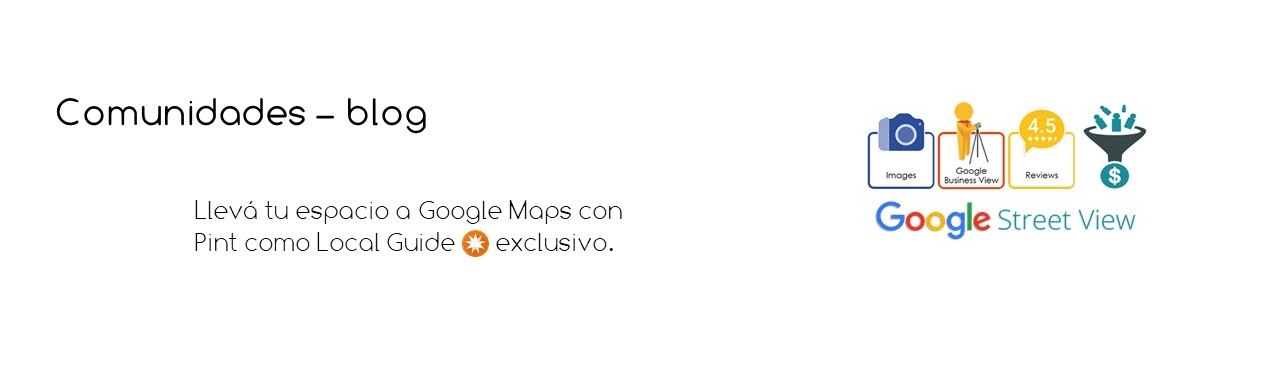
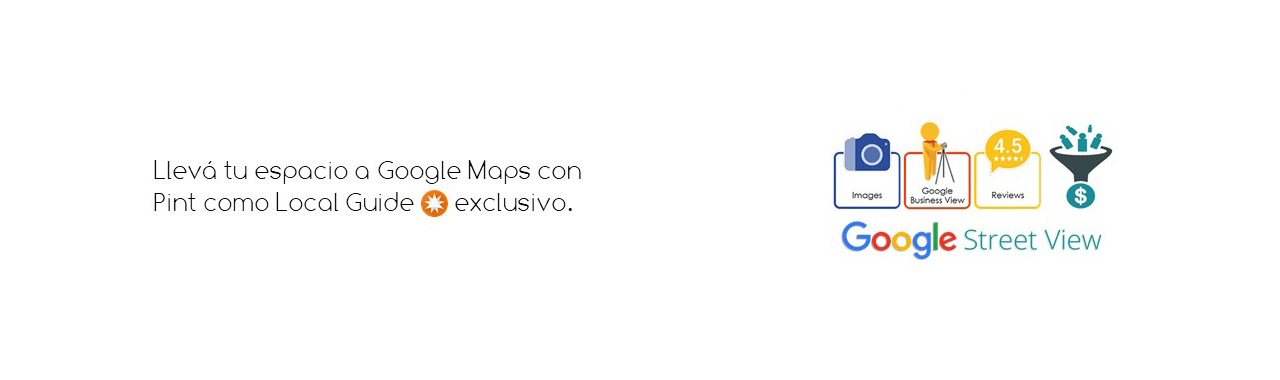
publis

Changed region(s): [[0.6562, 0.2605, 0.9062, 0.6947], [0.125, 0.4342, 0.5, 0.6947], [0.0312, 0.2605, 0.3438, 0.3474]]

diff --git a/pages/blog.html b/pages/blog.html
@@ -29,52 +29,53 @@
             </div>
         </header>
 
-        <main> <!-- ARTICULO PRINCIPAL -->
-            <section class="blog-articulo">
-                    <h1>“Realidad virtual” y nuevos paradigmas</h1>
-                    <div class="blog-in">
-                        <img class="blog-firma" src="../assets/img/empresa/jor-amoreo.jpeg" alt="">                
-                        <div>
-                            <h2><a class="link-negro" href="https://www.linkedin.com/in/jor-amoreo-casotti/">Jor Amoreo Casotti</a></h2>
-                            <p>CEO & Founder - Proptech Pint</p>
-                        </div>
+        <main class="blog-main"> <!-- ARTICULO PRINCIPAL -->
+            <section>
+                <h1>“Realidad virtual” y nuevos paradigmas</h1>
+                <div class="blog-in">
+                    <img class="blog-fotito" src="../assets/img/empresa/jor-amoreo.jpeg" alt="">                
+                    <div class="blog-firma">
+                        <h2><a class="link-negro" href="https://www.linkedin.com/in/jor-amoreo-casotti/">Jor Amoreo Casotti</a></h2>
+                        <p>CEO & Founder - Proptech Pint</p>
                     </div>
-                    <p class="blog-fecha">16 de junio de 2023</p>
-                    <div><img class="blog-foto" src="../assets/img/blog/blog-cover.jpeg" alt=""></div>
-                    <p>Los sentidos corporales, como la vista, el oído, el olfato, el gusto y el tacto, no solo nos permiten experimentar el mundo físico, sino que también nos brindan la oportunidad de conocernos a nosotros mismos y a los demás, para así generar y capturar valor en la sociedad, desarrollar nuestra sensibilidad espiritual y adquirir cualidades como la serenidad, la firmeza y la prudencia.</p>
-                    <p>Existe otra serie de sentidos menos populares, como el térmico, las sensaciones motoras, el sentido del equilibrio y las sensaciones de dolor, que también desempeñan un papel importante en nuestra percepción y experiencia del mundo. Se destaca la importancia de la razón en el camino hacia el conocimiento y la búsqueda de la Verdad con el fin de elevarnos por encima de lo concreto y comprender la naturaleza de las cosas, encontrar la verdad y crear conocimiento a través de la ciencia y las artes.</p>
-                    <p>Es curiosa en este sentido la denominada “realidad virtual” que desde su denominación constituye una contradicción en términos debido a la naturaleza misma de la realidad y su relación con la virtualidad. La realidad, en su esencia, se refiere a la existencia objetiva y tangible, por medio de los mencionados sentidos, del mundo que nos rodea, mientras que lo virtual se refiere a algo que es simulado, creado o representado mediante las tecnologías de la información y la comunicación, pero que también interpelan nuestros sentidos. Por lo tanto, al combinar estos dos conceptos, se genera una paradoja fundamental, ya que la virtualidad implica una separación de la realidad tangible y una incursión en un mundo construido, donde la experiencia percibida puede diferir de la realidad objetiva. Aunque la realidad virtual puede brindar experiencias inmersivas y fascinantes, es importante reconocer que, en última instancia, sigue siendo una construcción artificial que no puede replicar plenamente la complejidad y la totalidad de la realidad en su estado puro.</p>
-                    <p>Estas nuevas tecnologías que prometen nuevamente revolucionar nuestra forma de percibir y experimentar el mundo a través de dispositivos e instrumentos de avanzada, nos transportan a mundos virtuales que estimulan nuestros sentidos de manera extraordinaria. Sin embargo, en este deslumbrante universo digital, se esconde otra paradoja inquietante. ¿Hasta qué punto estamos dispuestos a permitir que nuestros sentidos sean manipulados y controlados por estas creaciones artificiales? ¿Ocurrió alguna vez en otra época de la humanidad algo similar con los sentidos de nuestros antepasados?</p>
-                    <p>A lo largo de la historia, la humanidad ha creado varias invenciones y tecnologías que han manipulado los sentidos de diferentes maneras: en su momento la fotografía, el cine, la manipulación de la velocidad, la aviación, y muchas otras, son en definitiva nuevos paradigmas que intervienen nuestra percepción del mundo conocido hasta el momento y cambian nuestras realidades para siempre, hasta que un día las damos por naturales. ¿Hasta dónde todas estas herramientas pueden caracterizarse  dentro de los parámetros de la autenticidad del ser humano, si ha quedado desnaturalizado respecto a la “idea original” si es que la hubo?</p>
-                    <p>La praxeología es una rama de la ciencias económicas poco explorada y que se centra en el estudio de la acción humana y sus consecuencias. Esta atractiva disciplina ha influido en diversos campos de estudio, incluyendo tanto a la filosofía como a la sociología y ofrece un marco conceptual para analizar y reflexionar sobre la relación entre la acción humana, la innovación tecnológica y los cambios constantes en la concepción de nuestra existencia. Al explorar estos temas desde una perspectiva filosófica, podemos profundizar en nuestra comprensión de cómo la especie humana evoluciona y se transforma a través de la razón y la capacidad de crear nuevas versiones de sí misma.</p>
-                    <p>La realidad virtual, con su capacidad para sumergirnos en mundos alternativos, desafía los límites de nuestra percepción y nos invita a cuestionar la naturaleza misma de la realidad. Pero, al mismo tiempo, plantea interrogantes sobre la autenticidad y ante todo la autenticidad de nuestras experiencias sensoriales. ¿Podemos confiar plenamente en lo que vemos, oímos y sentimos en estos entornos simulados?</p>
-                    <p>Varios exponentes de la literatura han elaborado sobre las realidades laberínticas y las ficciones infinitas. Sin duda escritores como Jorge Luis Borges, hubiesen encontrado en estas nuevas invenciones una fuente inagotable de inspiración. Los estilos poéticos y metafísicos de la apreciación de estas nociones podemos aprovecharlos para reflexionar en que si bien la manipulación de nuestros sentidos puede ser perturbadora, también puede ser una herramienta poderosa para explorar los límites del conocimiento y la imaginación: viajar a lugares remotos, sumergirse en mundos imaginarios, vivir experiencias emocionantes y peligrosas de manera segura, son solo algunos cambios de paradigma que esta era nos propone. La realidad virtual, en su esencia, nos ofrece una oportunidad única de adentrarnos en los recovecos más profundos de nuestra mente, donde la línea entre lo real y lo ilusorio se desvanece.</p>
-                    <p>Es crucial recordar, que como con todo, el verdadero poder de estas nuevas tecnologías, reside en la forma en que las utilizamos. Si nos entregamos ciegamente a sus encantos y permitimos que controle nuestras percepciones sin cuestionar, nos arriesgamos a perder nuestra conexión con la esencia misma de lo humano. Pero si somos conscientes de su potencial y la empleamos con sabiduría, la realidad virtual puede convertirse en una herramienta de expansión y enriquecimiento de nuestra mente y espíritu, en el contexto de la ciencia, la medicina, el comercio, el turismo… la vida. </p>
-                    <p>En última instancia, estos avances nos desafían a explorar la relación entre nuestros sentidos, la percepción y la verdad misma. A través de la reflexión y la filosofía, podemos encontrar un equilibrio entre la maravilla y la cautela, entre el descubrimiento y la autenticidad. Quizá la clave radique en recordar que, aunque estas oportunidades de la historia nos ofrecen nuevas fronteras para explorar, somos nosotros, como seres humanos conscientes, quienes debemos decidir cómo navegar por este fascinante y desconcertante paisaje de realidades alternativas.</p>
-                    <p>Más que respuestas, esta nueva era nos invita a plantear algunos cuestionamientos: ¿Qué impacto tienen las experiencias inmersivas en la percepción de la realidad y la construcción de la identidad individual?, ¿Cuáles son las implicaciones éticas de la manipulación de los sentidos a través de la realidad virtual?, ¿Existe la posibilidad de abusar de estas tecnologías para influir en las percepciones y emociones de las personas?</p>
+                </div>
+                <p class="blog-fecha">16 de junio de 2023</p>
+                <div><img class="blog-foto" src="../assets/img/blog/blog-cover.jpeg" alt=""></div>
+                <p>Los sentidos corporales, como la vista, el oído, el olfato, el gusto y el tacto, no solo nos permiten experimentar el mundo físico, sino que también nos brindan la oportunidad de conocernos a nosotros mismos y a los demás, para así generar y capturar valor en la sociedad, desarrollar nuestra sensibilidad espiritual y adquirir cualidades como la serenidad, la firmeza y la prudencia.</p>
+                <p>Existe otra serie de sentidos menos populares, como el térmico, las sensaciones motoras, el sentido del equilibrio y las sensaciones de dolor, que también desempeñan un papel importante en nuestra percepción y experiencia del mundo. Se destaca la importancia de la razón en el camino hacia el conocimiento y la búsqueda de la Verdad con el fin de elevarnos por encima de lo concreto y comprender la naturaleza de las cosas, encontrar la verdad y crear conocimiento a través de la ciencia y las artes.</p>
+                <p>Es curiosa en este sentido la denominada “realidad virtual” que desde su denominación constituye una contradicción en términos debido a la naturaleza misma de la realidad y su relación con la virtualidad. La realidad, en su esencia, se refiere a la existencia objetiva y tangible, por medio de los mencionados sentidos, del mundo que nos rodea, mientras que lo virtual se refiere a algo que es simulado, creado o representado mediante las tecnologías de la información y la comunicación, pero que también interpelan nuestros sentidos. Por lo tanto, al combinar estos dos conceptos, se genera una paradoja fundamental, ya que la virtualidad implica una separación de la realidad tangible y una incursión en un mundo construido, donde la experiencia percibida puede diferir de la realidad objetiva. Aunque la realidad virtual puede brindar experiencias inmersivas y fascinantes, es importante reconocer que, en última instancia, sigue siendo una construcción artificial que no puede replicar plenamente la complejidad y la totalidad de la realidad en su estado puro.</p>
+                <p>Estas nuevas tecnologías que prometen nuevamente revolucionar nuestra forma de percibir y experimentar el mundo a través de dispositivos e instrumentos de avanzada, nos transportan a mundos virtuales que estimulan nuestros sentidos de manera extraordinaria. Sin embargo, en este deslumbrante universo digital, se esconde otra paradoja inquietante. ¿Hasta qué punto estamos dispuestos a permitir que nuestros sentidos sean manipulados y controlados por estas creaciones artificiales? ¿Ocurrió alguna vez en otra época de la humanidad algo similar con los sentidos de nuestros antepasados?</p>
+                <p>A lo largo de la historia, la humanidad ha creado varias invenciones y tecnologías que han manipulado los sentidos de diferentes maneras: en su momento la fotografía, el cine, la manipulación de la velocidad, la aviación, y muchas otras, son en definitiva nuevos paradigmas que intervienen nuestra percepción del mundo conocido hasta el momento y cambian nuestras realidades para siempre, hasta que un día las damos por naturales. ¿Hasta dónde todas estas herramientas pueden caracterizarse  dentro de los parámetros de la autenticidad del ser humano, si ha quedado desnaturalizado respecto a la “idea original” si es que la hubo?</p>
+                <p>La praxeología es una rama de la ciencias económicas poco explorada y que se centra en el estudio de la acción humana y sus consecuencias. Esta atractiva disciplina ha influido en diversos campos de estudio, incluyendo tanto a la filosofía como a la sociología y ofrece un marco conceptual para analizar y reflexionar sobre la relación entre la acción humana, la innovación tecnológica y los cambios constantes en la concepción de nuestra existencia. Al explorar estos temas desde una perspectiva filosófica, podemos profundizar en nuestra comprensión de cómo la especie humana evoluciona y se transforma a través de la razón y la capacidad de crear nuevas versiones de sí misma.</p>
+                <p>La realidad virtual, con su capacidad para sumergirnos en mundos alternativos, desafía los límites de nuestra percepción y nos invita a cuestionar la naturaleza misma de la realidad. Pero, al mismo tiempo, plantea interrogantes sobre la autenticidad y ante todo la autenticidad de nuestras experiencias sensoriales. ¿Podemos confiar plenamente en lo que vemos, oímos y sentimos en estos entornos simulados?</p>
+                <p>Varios exponentes de la literatura han elaborado sobre las realidades laberínticas y las ficciones infinitas. Sin duda escritores como Jorge Luis Borges, hubiesen encontrado en estas nuevas invenciones una fuente inagotable de inspiración. Los estilos poéticos y metafísicos de la apreciación de estas nociones podemos aprovecharlos para reflexionar en que si bien la manipulación de nuestros sentidos puede ser perturbadora, también puede ser una herramienta poderosa para explorar los límites del conocimiento y la imaginación: viajar a lugares remotos, sumergirse en mundos imaginarios, vivir experiencias emocionantes y peligrosas de manera segura, son solo algunos cambios de paradigma que esta era nos propone. La realidad virtual, en su esencia, nos ofrece una oportunidad única de adentrarnos en los recovecos más profundos de nuestra mente, donde la línea entre lo real y lo ilusorio se desvanece.</p>
+                <p>Es crucial recordar, que como con todo, el verdadero poder de estas nuevas tecnologías, reside en la forma en que las utilizamos. Si nos entregamos ciegamente a sus encantos y permitimos que controle nuestras percepciones sin cuestionar, nos arriesgamos a perder nuestra conexión con la esencia misma de lo humano. Pero si somos conscientes de su potencial y la empleamos con sabiduría, la realidad virtual puede convertirse en una herramienta de expansión y enriquecimiento de nuestra mente y espíritu, en el contexto de la ciencia, la medicina, el comercio, el turismo… la vida. </p>
+                <p>En última instancia, estos avances nos desafían a explorar la relación entre nuestros sentidos, la percepción y la verdad misma. A través de la reflexión y la filosofía, podemos encontrar un equilibrio entre la maravilla y la cautela, entre el descubrimiento y la autenticidad. Quizá la clave radique en recordar que, aunque estas oportunidades de la historia nos ofrecen nuevas fronteras para explorar, somos nosotros, como seres humanos conscientes, quienes debemos decidir cómo navegar por este fascinante y desconcertante paisaje de realidades alternativas.</p>
+                <p>Más que respuestas, esta nueva era nos invita a plantear algunos cuestionamientos: ¿Qué impacto tienen las experiencias inmersivas en la percepción de la realidad y la construcción de la identidad individual?, ¿Cuáles son las implicaciones éticas de la manipulación de los sentidos a través de la realidad virtual?, ¿Existe la posibilidad de abusar de estas tecnologías para influir en las percepciones y emociones de las personas?</p>
             </section>
         </main>
 
-        <aside class="blog-recomendados"> <!-- ARTICULOS RECOMENDADOS -->
+        <aside class="blog-aside"> <!-- ARTICULOS RECOMENDADOS -->
+            <h2>Tendencia</h2>
             <div class="blog-mini">
-                <img class="blog-mini-foto" src="../assets/img/blog/abrete-sesamo.jpg" alt="">
+                <img class="blog-recomendado" src="../assets/img/blog/abrete-sesamo.jpg" alt="">
                 <a class="link-negro" href=".//404.html"><h3>"Ábrete sésamo": el ingreso a la cuarta revolución industrial</h3></a>
                 <p>por Gastón Figueras</p>
             </div>
             <div class="blog-mini">
-                <img class="blog-mini-foto" src="../assets/img/blog/color-exito.jpeg" alt="">
+                <img class="blog-recomendado" src="../assets/img/blog/color-exito.jpeg" alt="">
                 <a class="link-negro" href=".//404.html"><h3>El Color del Éxito</h3></a>
                 <p>por Daniel Alejandro Briceño Moreno</p>
             </div>
             <div class="blog-mini">
-                <img class="blog-mini-foto" src="../assets/img/blog/inteligencia-emocional.jpg" alt="">
+                <img class="blog-recomendado" src="../assets/img/blog/inteligencia-emocional.jpg" alt="">
                 <a class="link-negro" href=".//404.html"><h3>La Inteligencia emocional y los trabajos del futuro</h3></a>
                 <p>por Gastón Figueras</p>
             </div>
         </aside>
 
         <div class="banner-publicidad"> <!-- PUBLICIDAD -->             
-            <a target="_blank" href="https://pint.com.ar/"><img src="../assets/img/blog/blog-publicidad.jpg" alt="Publicidad"></a>
+            <a href="https://pint.com.ar/" target="_blank"><img src="../assets/img/difusion-perfecta.jpg" alt="Publicidad"></a>
         </div>
 
 

diff --git a/css/estilos.css b/css/estilos.css
@@ -143,20 +143,25 @@ p {
 
 /* BLOG */
 
-.blog-articulo {
-    width: 57%;
-    margin: 1%;
-    padding: 1%;
+.blog-main {
+    width: 60%;
     display: inline-block;
+    align-items: center;
+    justify-content: center;
 }
 
 .blog-in {
+    width: 100%;
     display: inline-block;
 }
 
-.blog-firma {
-    height: 60px;
+.blog-fotito {
+    width: 60px;
     border-radius: 50%;
+}
+
+.blog-firma {
+    display: inline-block;
 }
 
 .blog-fecha {
@@ -167,15 +172,20 @@ p {
     width: 100%;
 }
 
-.blog-recomendados {
+.blog-aside {
     display: inline-block;
+    position: relative;
+    margin: 2%;
+    padding: 2%;
+    width: 27%;
+    background-color: whitesmoke;
 }
 
 .blog-mini {
-    width: 21%;
+    display: inline-block;
 }
 
-.blog-mini-foto {
+.blog-recomendado {
     width: 100%;
 }
 

diff --git a/index.html b/index.html
@@ -102,7 +102,7 @@
         </aside>
 
         <div class="banner-publicidad"> <!-- PUBLICIDAD -->          
-            <a target="_blank" href="https://pint.com.ar/"><img src="./assets/img/blog/blog-publicidad2.jpg" alt="Publicidad"></a>
+            <a target="_blank" href="https://pint.com.ar/"><img src="./assets/img/publicaciones-inteligentes.jpg" alt="Publicidad"></a>
         </div>
 
         <div> <!-- WHATSAPP -->

diff --git a/pages/comunidades.html b/pages/comunidades.html
@@ -66,7 +66,7 @@
 
         <article> <!-- PUBLICIDAD -->
             <div class="banner-publicidad">            
-                <a target="_blank" href="https://pint.com.ar/"><img src="../assets/img/blog/blog-publicidad.jpg" alt="Publicidad"></a>
+                <a target="_blank" href="https://pint.com.ar/"><img src="../assets/img/local-guide.jpg" alt="Publicidad"></a>
             </div>
         </article>
 
